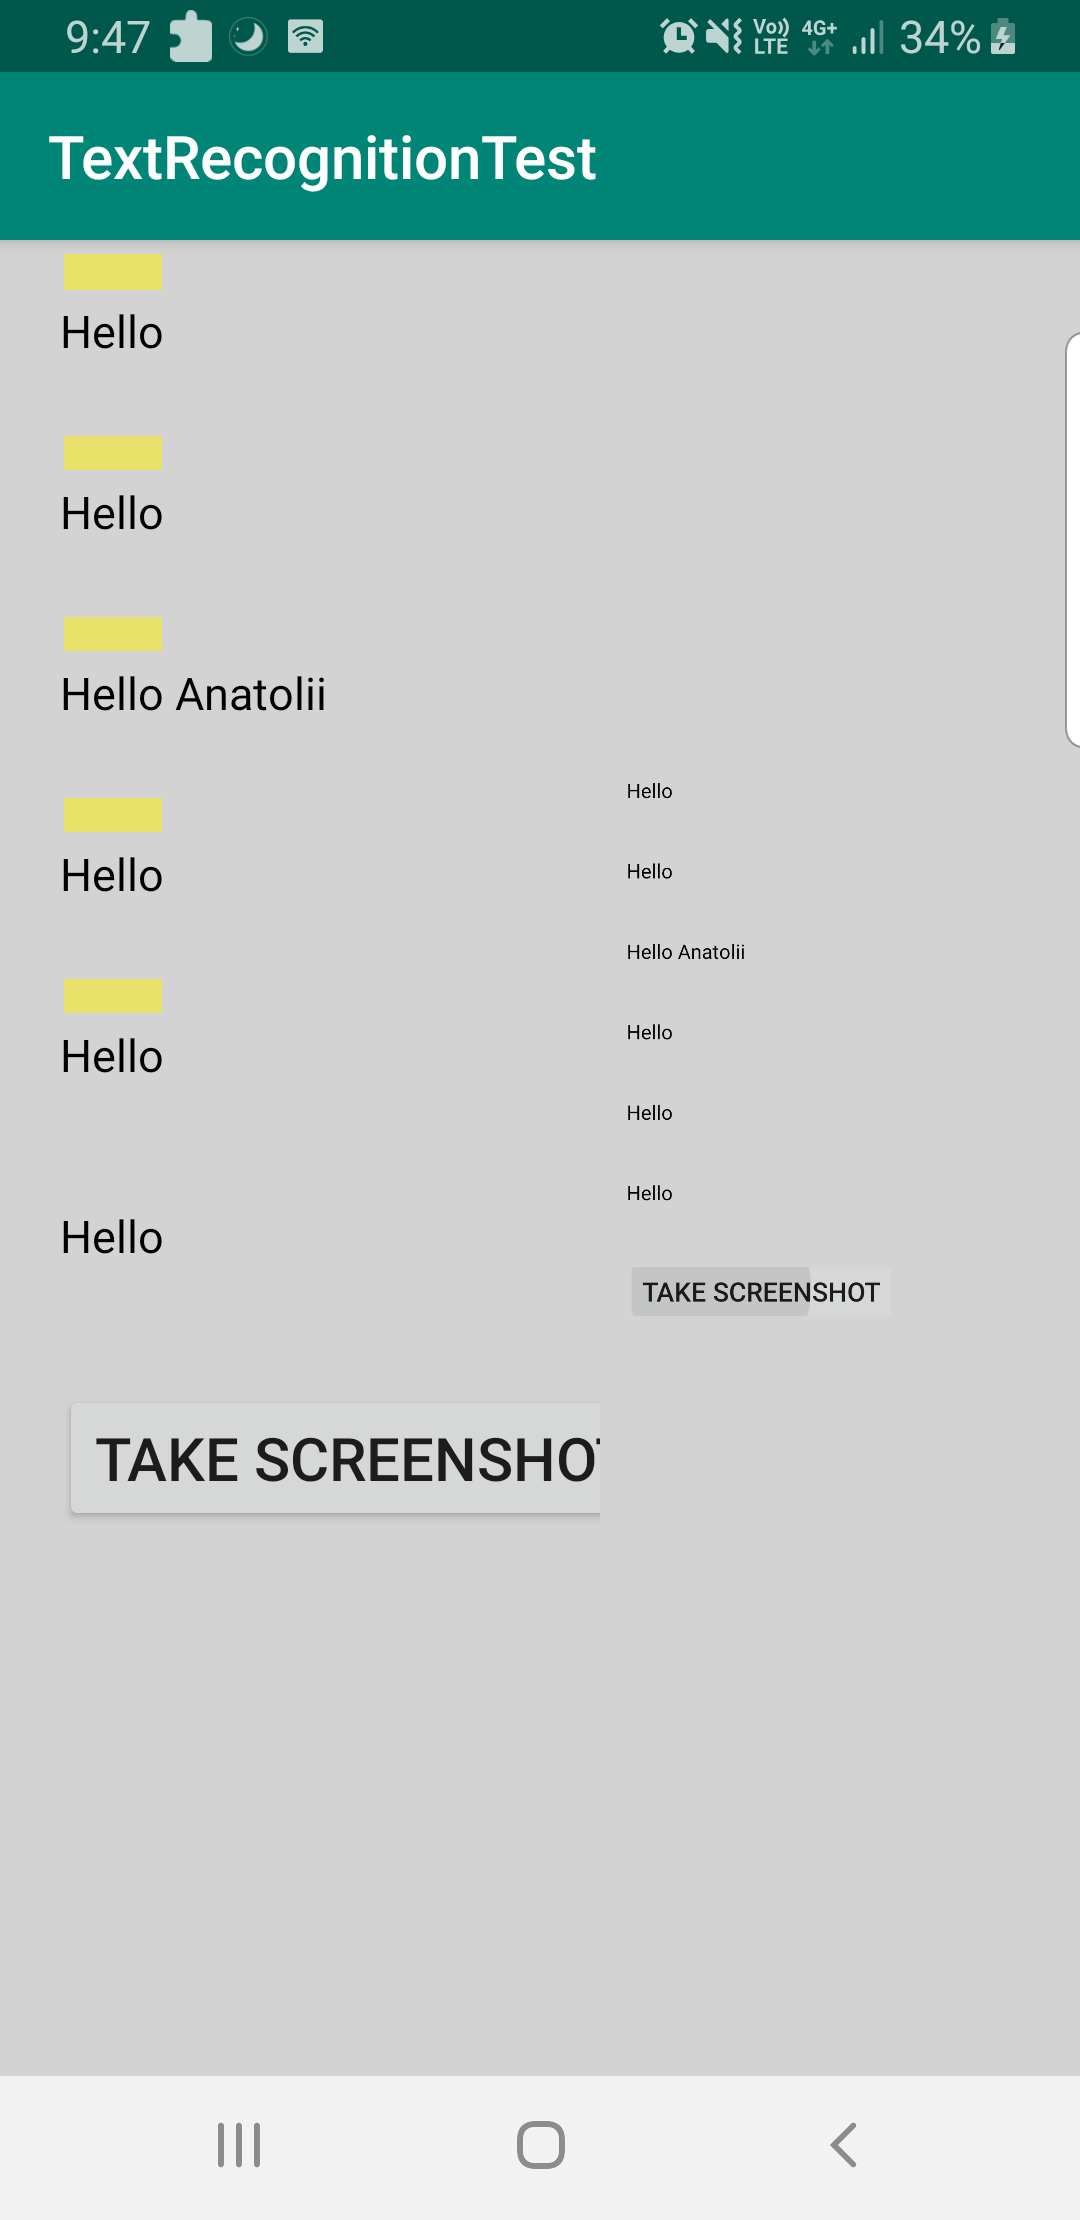
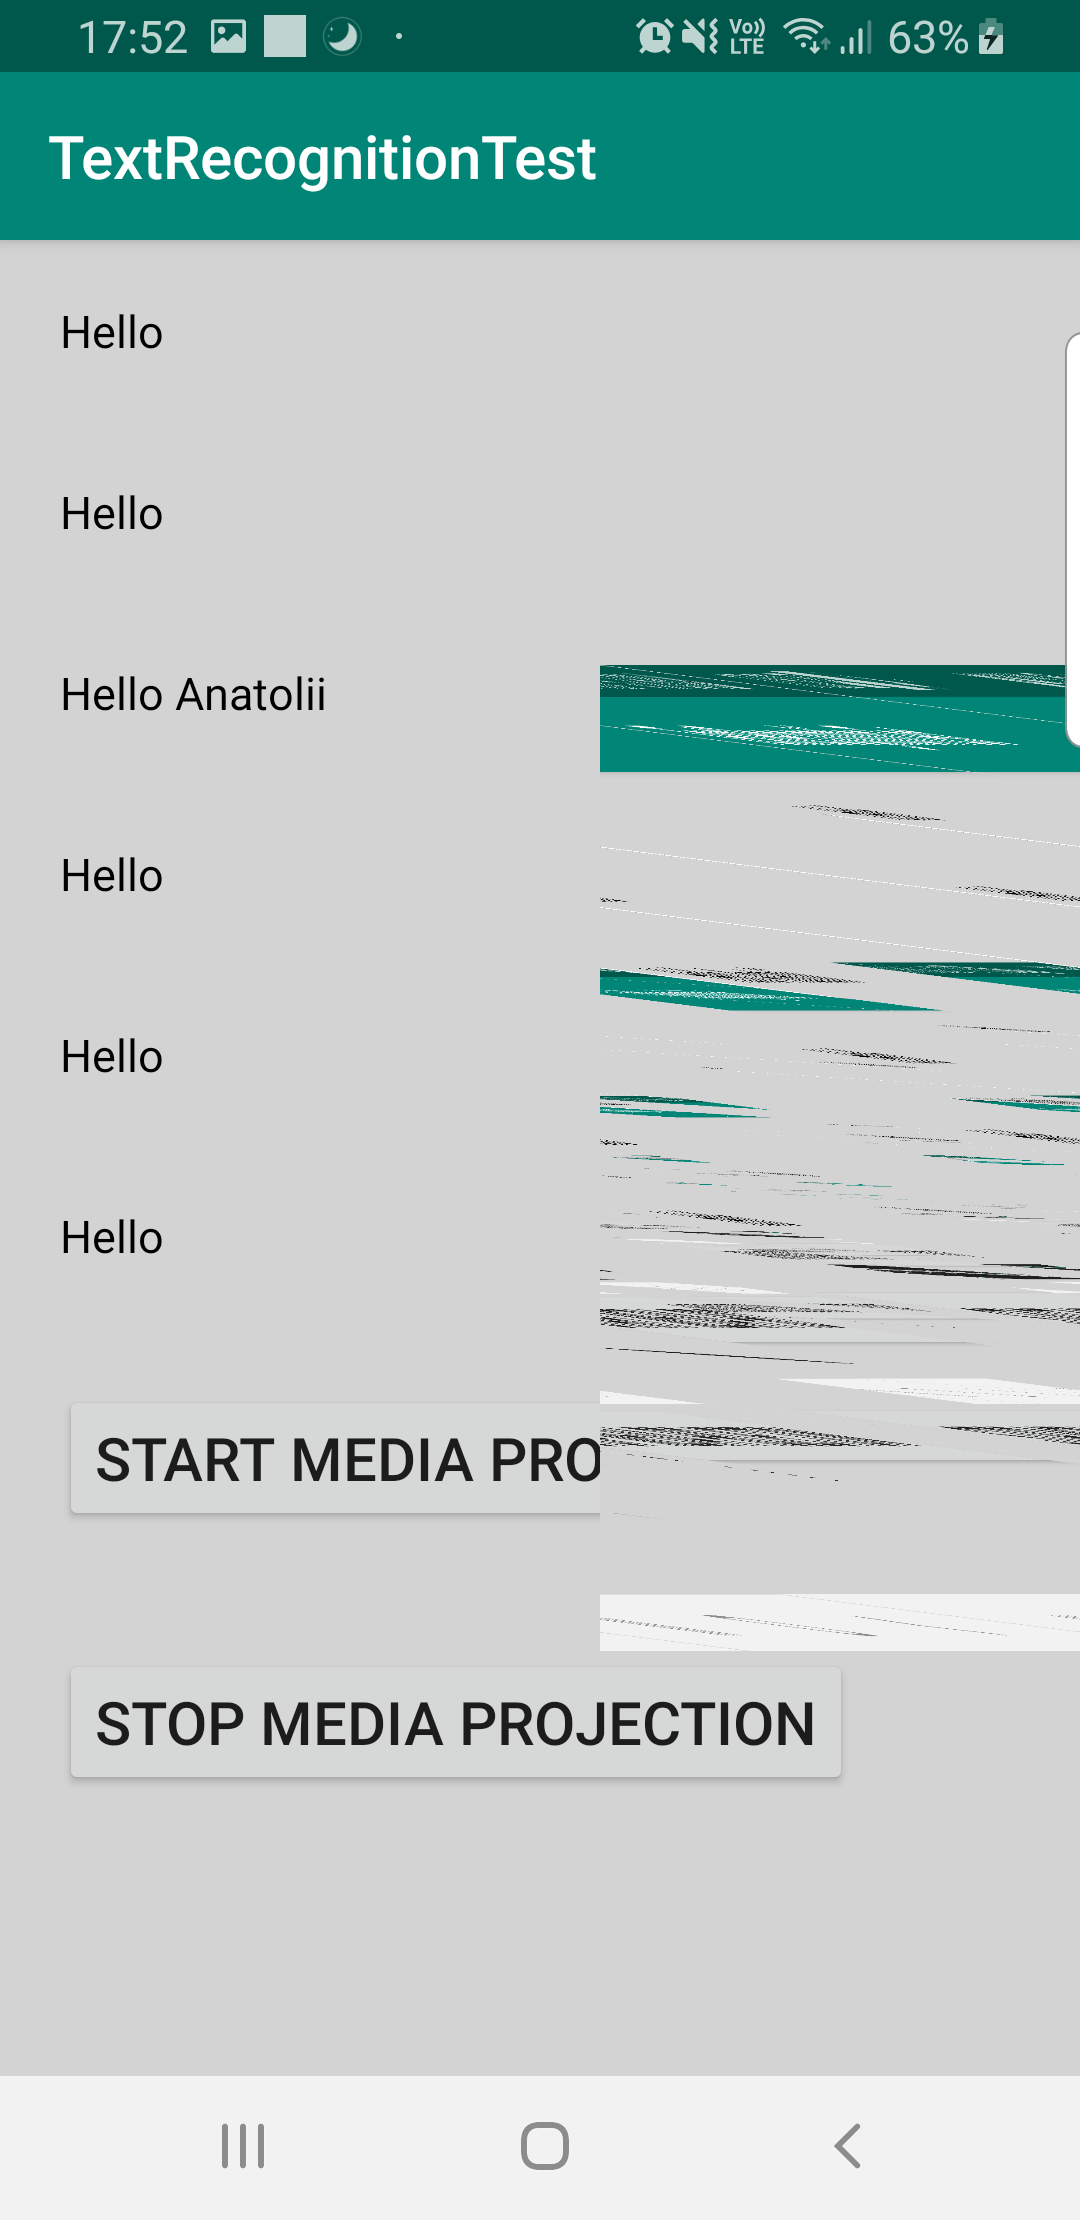
Added test image view to show the bad images captured.

diff --git a/app/src/main/java/com/gaspar/textrecognitiontest/MainActivity.java b/app/src/main/java/com/gaspar/textrecognitiontest/MainActivity.java
@@ -3,12 +3,14 @@ package com.gaspar.textrecognitiontest;
 import android.app.Activity;
 import android.content.Context;
 import android.content.Intent;
+import android.graphics.Bitmap;
 import android.graphics.Rect;
 import android.media.projection.MediaProjectionManager;
 import android.os.Bundle;
 import android.view.LayoutInflater;
 import android.view.View;
 import android.widget.FrameLayout;
+import android.widget.ImageView;
 
 import androidx.appcompat.app.AppCompatActivity;
 
@@ -27,14 +29,14 @@ public class MainActivity extends AppCompatActivity {
 
     private List<View> highlighers;
 
-    //private ImageView testDisplay;
+    private ImageView testDisplay;
 
     @Override
     protected void onCreate(Bundle savedInstanceState) {
         super.onCreate(savedInstanceState);
         setContentView(R.layout.activity_main);
         root = findViewById(R.id.root_layout);
-        //testDisplay = findViewById(R.id.testDisplay);
+        testDisplay = findViewById(R.id.testDisplay);
         EventBus.getDefault().register(this);
         highlighers = new ArrayList<>();
     }
@@ -69,6 +71,11 @@ public class MainActivity extends AppCompatActivity {
             root.addView(highlighter, params);
             highlighers.add(highlighter); //save view to be able to remove later
         }
+    }
+
+    @Subscribe(threadMode = ThreadMode.MAIN)
+    public void onMessageEvent(Bitmap bitmap) {
+        testDisplay.setImageBitmap(bitmap);
     }
 
     @Override

diff --git a/app/src/main/java/com/gaspar/textrecognitiontest/ScreenCaptureService.java b/app/src/main/java/com/gaspar/textrecognitiontest/ScreenCaptureService.java
@@ -124,6 +124,7 @@ public class ScreenCaptureService extends Service {
     }
 
     private void processScreenshot(Bitmap bitmap) {
+        EventBus.getDefault().post(bitmap); //send bitmap for display
         final BoundingBoxes boundingBoxes = new BoundingBoxes(); //this object will be sent
         InputImage image = InputImage.fromBitmap(bitmap, 0);
         TextRecognizer recognizer = TextRecognition.getClient();
@@ -270,7 +271,7 @@ public class ScreenCaptureService extends Service {
 
     @SuppressLint("WrongConstant")
     private void createVirtualDisplay() {
-// get width and height
+	// get width and height
         WindowManager wm = (WindowManager) getApplicationContext().getSystemService(Context.WINDOW_SERVICE);
         Display display = wm.getDefaultDisplay();
         Point size = new Point();
